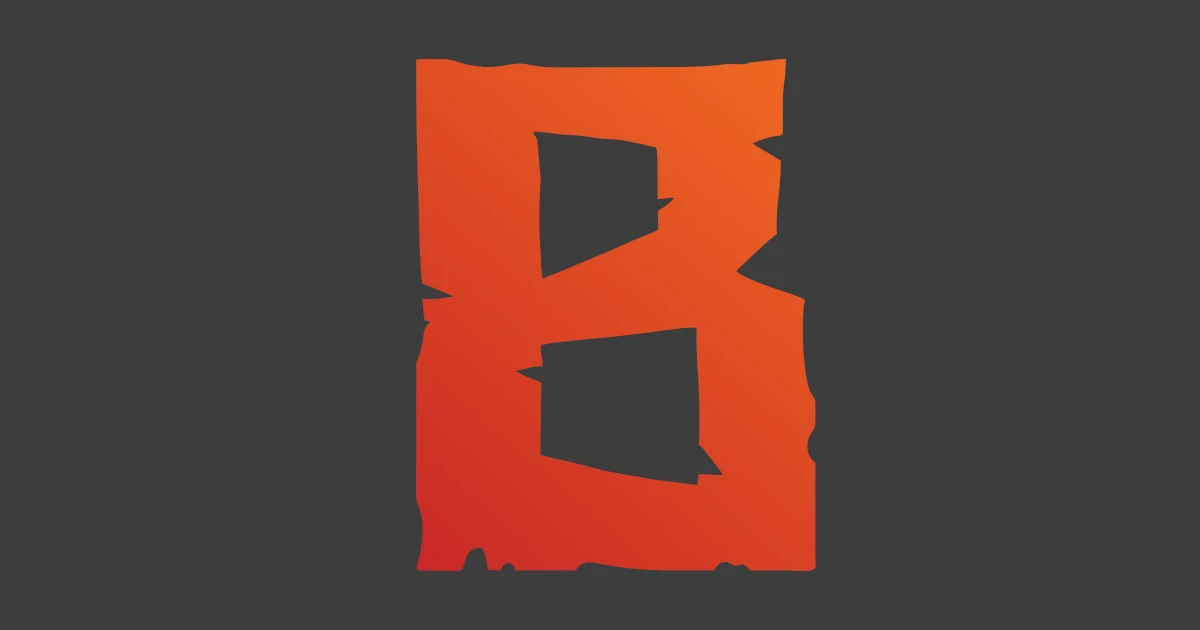
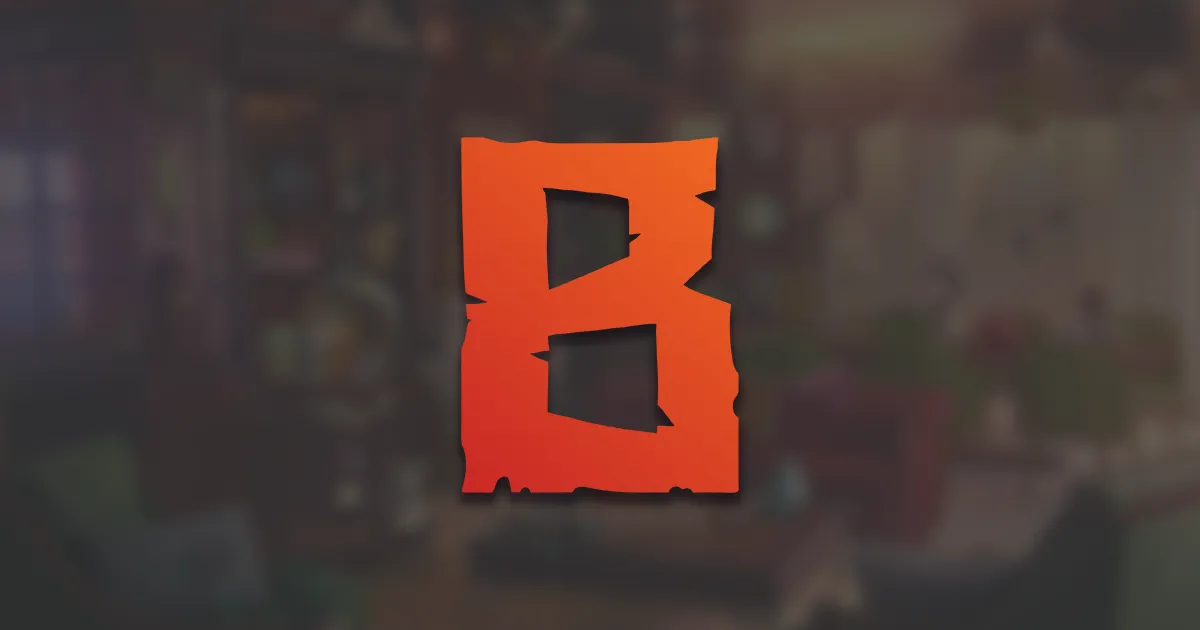
!X - New og image
Why:

Better looking

diff --git a/plugins/gatsby-plugin-top-layout/TopLayout.js b/plugins/gatsby-plugin-top-layout/TopLayout.js
@@ -48,7 +48,7 @@ export default function TopLayout(props) {
         <meta name="twitter:title" content="Bishop Games - Your favorite game development studio" />
         <meta name="twitter:description" content="A full-service game development studio specializing in Unity game programming, game art, and the complete game development lifecycle" />
         <meta name="twitter:url" content="https://bishop.games/?src=twitter" />
-        <meta name="twitter:image:src" content="http://bishop.games/image/all.png" />
+        <meta name="twitter:image:src" content="../../src/images/og/og.webp" />
         <meta name="twitter:image:alt" content="Best game development studio" />
         <meta name="twitter:creator" content="@rusimovmilan" />
         <meta name="twitter:site" content="@bishopgames" />
